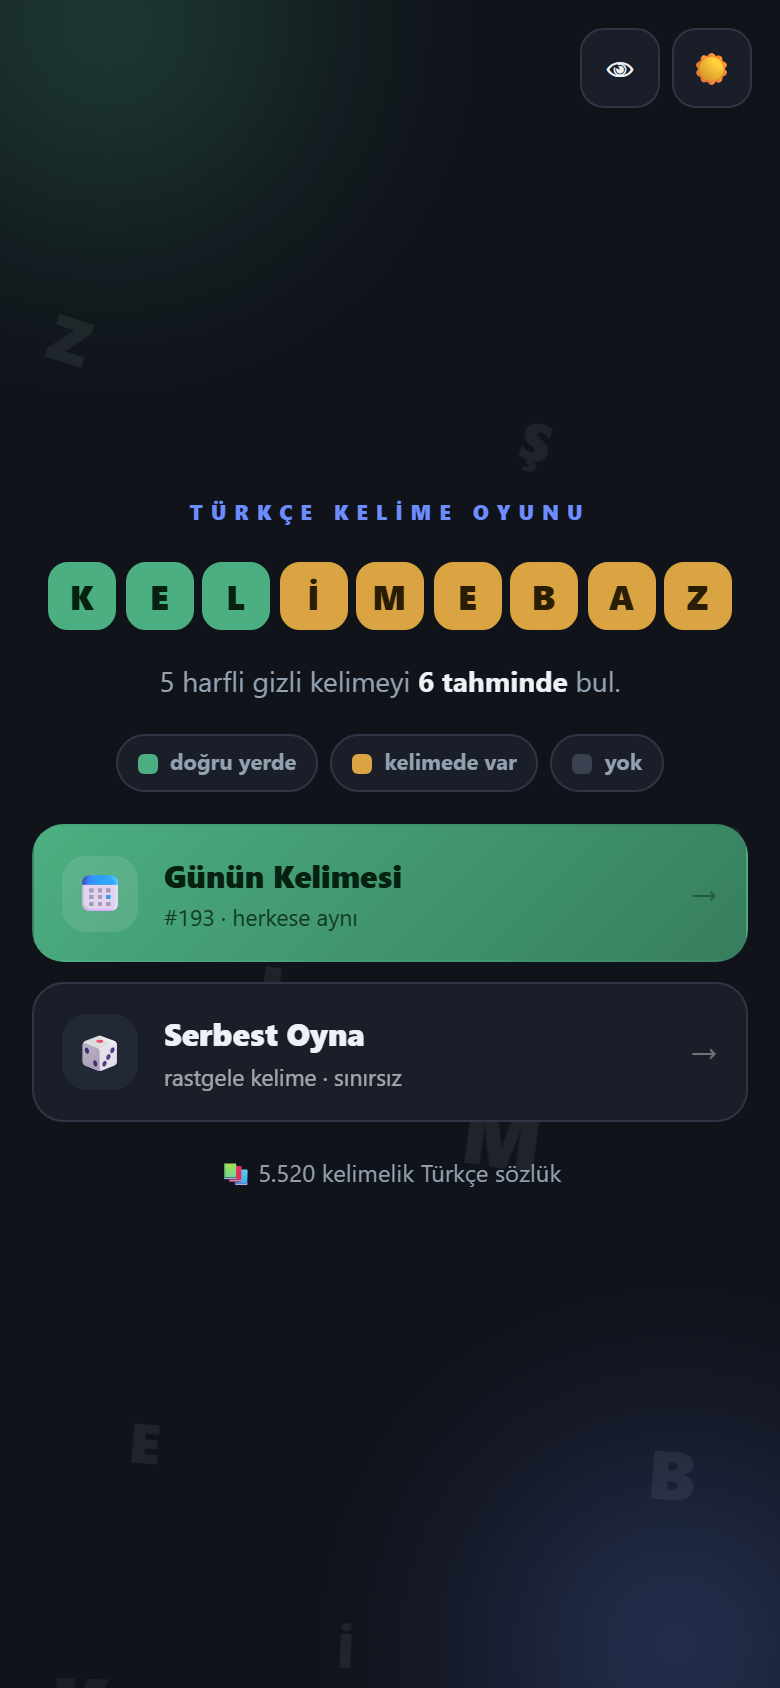
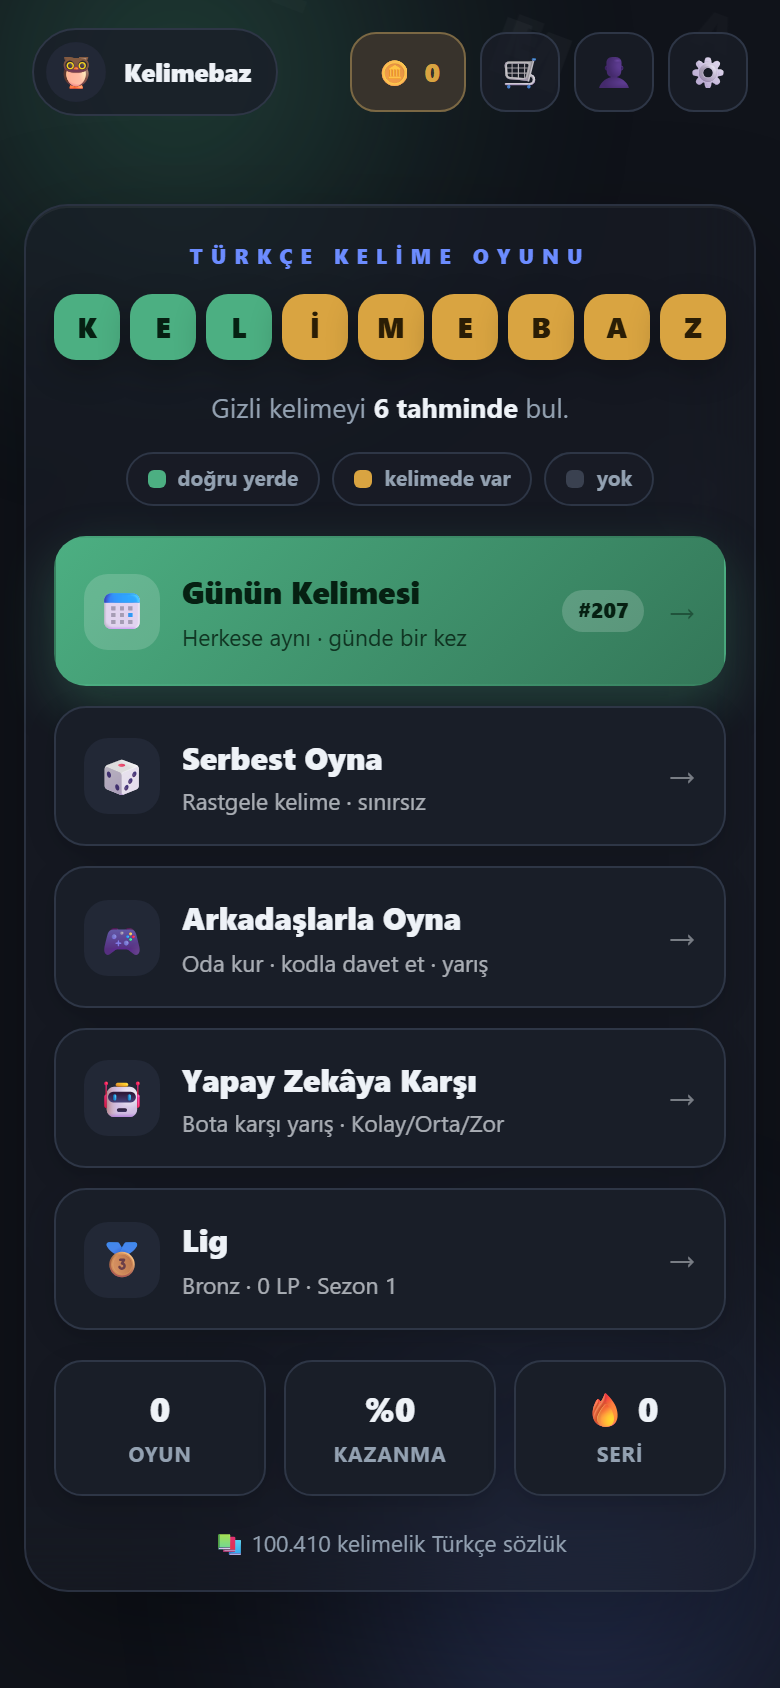
Metinleri 4-7 harf gercegiyle esitle: sabit "5 harfli" ifadesini kaldir
Oyun artik 4-7 harf kullaniyor (uzunluk seviyeye gore) ama bazi metinler
ilk surumden kalma "5 harfli" diyordu.

- Menu slogani (title.taglineBefore): "5 harfli gizli kelimeyi" ->
  "Gizli kelimeyi" (tr + en) -> "Gizli kelimeyi 6 tahminde bul."
- index.html: meta description + og:description'dan "5 harfli" kaldirildi
  (title/og:title zaten "5 harfli" demiyordu)
- README: uzunluktan bagimsiz + "4-7 harf, seviyene gore" notu
- Ekran goruntuleri yenilendi (1-baslik + menu-1..5) -> guncel taglineyi
  ve guncel menuyu (vsai/lig/oda) yansitiyor

Not: test/kod icindeki "5 harf girin" dinamik mesajdir (game.enterNLetters =
"{n} harf girin"); 5 harfli test senaryolarinda dogru. words.json'daki not
verinin kendi meta notu (havuz 4-7 harf). Bunlar UI/meta degil, dokunulmadi.

diff --git a/src/index.html b/src/index.html
@@ -5,7 +5,7 @@
   <meta name="viewport" content="width=device-width, initial-scale=1">
 
   <title>Kelimebaz — Türkçe Kelime Oyunu</title>
-  <meta name="description" content="5 harfli gizli Türkçe kelimeyi 6 tahminde bul. Her gün yeni bir kelime, sınırsız serbest oyun.">
+  <meta name="description" content="Gizli Türkçe kelimeyi 6 tahminde bul. Her gün yeni bir kelime, sınırsız serbest oyun.">
   <base href="/">
 
   <!-- Simge: SVG (keskin, temaya uyumlu), eski tarayıcılar için .ico yedeği -->
@@ -19,7 +19,7 @@
   <!-- Link paylaşıldığında güzel görünsün -->
   <meta property="og:type" content="website">
   <meta property="og:title" content="Kelimebaz — Türkçe Kelime Oyunu">
-  <meta property="og:description" content="5 harfli gizli Türkçe kelimeyi 6 tahminde bul.">
+  <meta property="og:description" content="Gizli Türkçe kelimeyi 6 tahminde bul.">
   <meta property="og:locale" content="tr_TR">
   <meta name="twitter:card" content="summary">
 

diff --git a/src/app/core/messages.ts b/src/app/core/messages.ts
@@ -29,7 +29,7 @@ export const MESSAGES: Record<string, { tr: string; en: string }> = {
   'title.shop': { tr: 'Mağaza', en: 'Shop' },
   'title.settings': { tr: 'Ayarlar', en: 'Settings' },
   'title.eyebrow': { tr: 'Türkçe Kelime Oyunu', en: 'Word Game' },
-  'title.taglineBefore': { tr: '5 harfli gizli kelimeyi', en: 'Guess the hidden 5-letter word in' },
+  'title.taglineBefore': { tr: 'Gizli kelimeyi', en: 'Guess the hidden word in' },
   'title.taglineBold': { tr: '6 tahminde', en: '6 tries' },
   'title.taglineAfter': { tr: 'bul.', en: '.' },
   'title.legendCorrect': { tr: 'doğru yerde', en: 'correct spot' },

diff --git a/README.md b/README.md
@@ -2,7 +2,7 @@
 
 # 🎯 Kelimebaz
 
-**Türkçe kelime bulmaca oyunu.** 5 harfli gizli kelimeyi 6 tahminde bul.
+**Türkçe kelime bulmaca oyunu.** Gizli kelimeyi 6 tahminde bul (kelime uzunluğu seviyene göre 4-7 harf).
 
 ### ▶ [**Oyna: 34.158.136.9/berk/kelimebaz**](http://34.158.136.9/berk/kelimebaz/)
 
